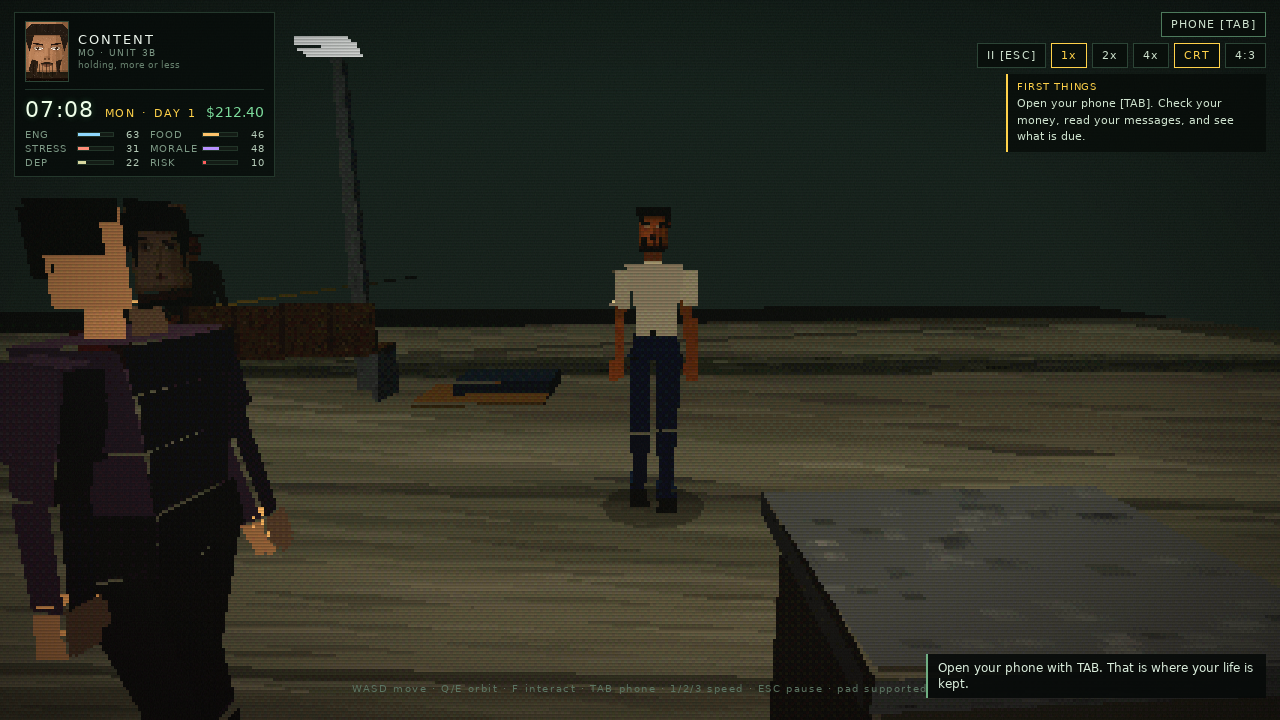
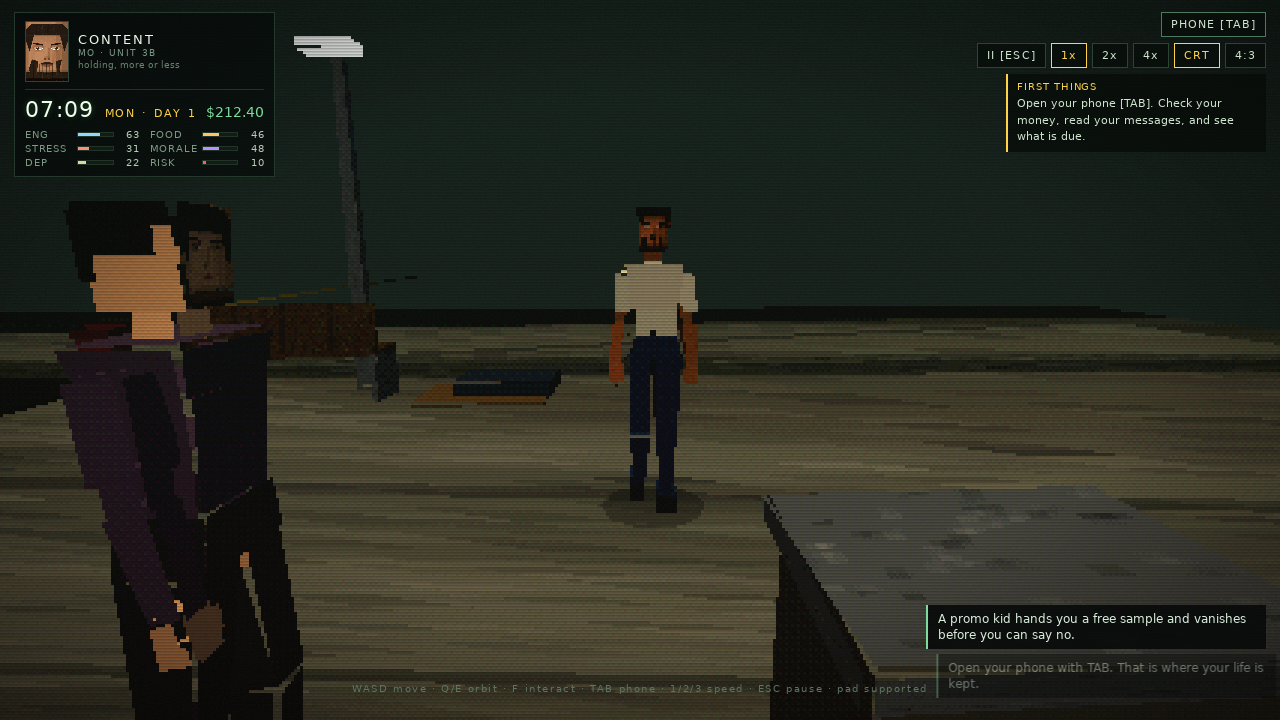
Slope the shoulders into the arms and drop the scratch captures
Lowers the arm joint under the shoulder line so the tee's top edge stops reading as a wing, and
removes the throwaway art-check screenshots so assets/img only holds plates the README uses.

diff --git a/src/world/characters.js b/src/world/characters.js
@@ -300,11 +300,11 @@ function buildBody(spec) {
   const foreH = 0.245 * k;
   const handH = 0.10 * k;
   function makeArm(sx) {
-    const pivot = joint(torso, sx * shoulderX, shoulderY - 0.028 * k, 0);
-    pivot.add(taper(0.088 * b * k, 0.074 * b * k, 0.100 * k, 0.082 * k, upperH, armMat));
+    const pivot = joint(torso, sx * shoulderX, shoulderY - 0.052 * k, 0);
+    pivot.add(taper(0.086 * b * k, 0.072 * b * k, 0.098 * k, 0.080 * k, upperH, armMat));
     if (sleeveMat && armMat !== sleeveMat) {
-      pivot.add(taper(0.108 * b * k, 0.098 * b * k, 0.122 * k, 0.108 * k, upperH * 0.72, sleeveMat));
-      pivot.add(taper(0.104 * b * k, 0.102 * b * k, 0.116 * k, 0.113 * k, 0.012 * k, sleeveMat, [0, -upperH * 0.72 + 0.012 * k, 0]));
+      pivot.add(taper(0.098 * b * k, 0.094 * b * k, 0.114 * k, 0.104 * k, upperH * 0.74, sleeveMat));
+      pivot.add(taper(0.096 * b * k, 0.094 * b * k, 0.108 * k, 0.105 * k, 0.012 * k, sleeveMat, [0, -upperH * 0.74 + 0.012 * k, 0]));
     }
     const elbow = joint(pivot, 0, -upperH, 0);
     elbow.add(taper(0.076 * b * k, 0.060 * b * k, 0.085 * k, 0.070 * k, foreH, armMat === sleeveMat ? sleeveMat : armMat));
